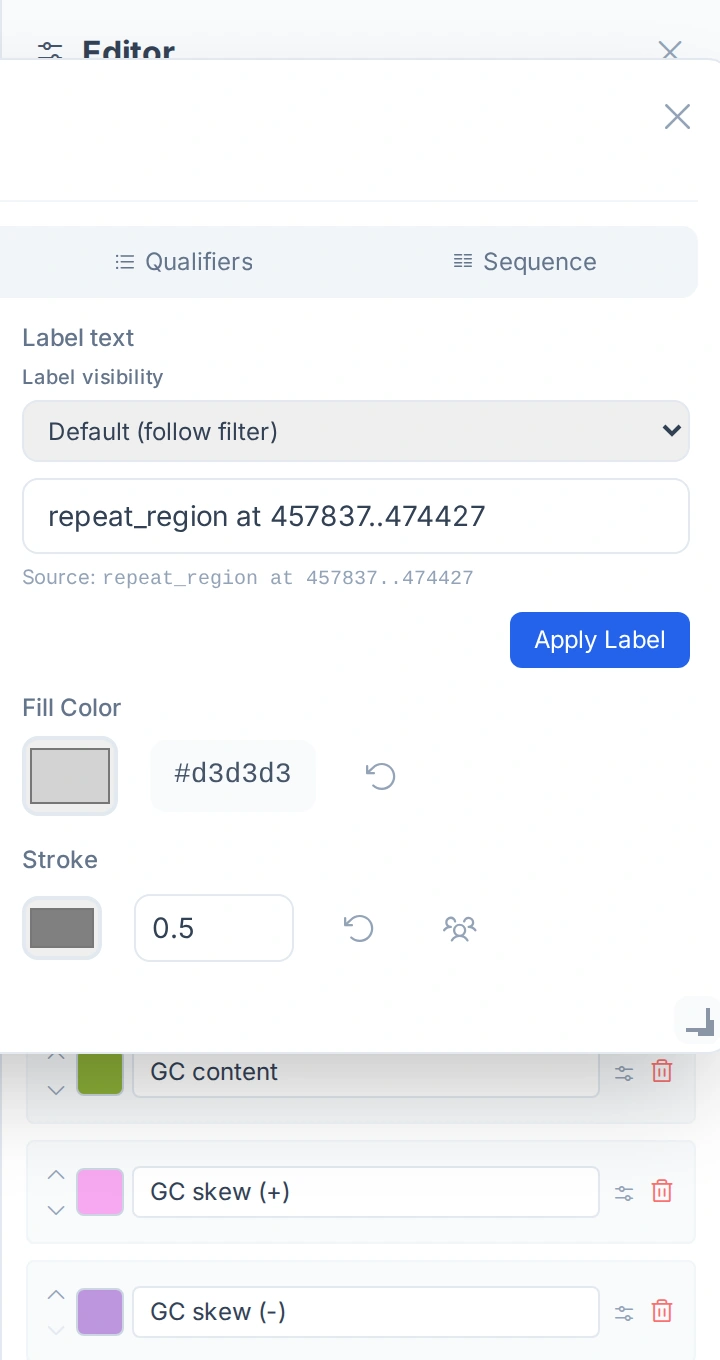
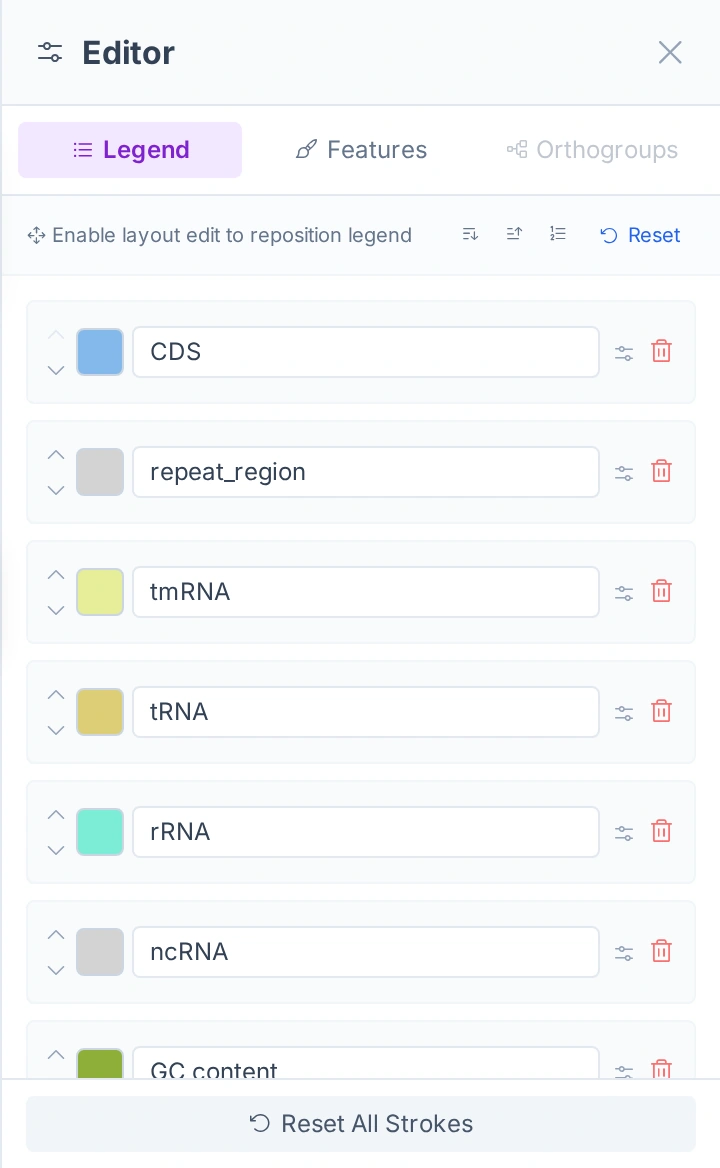
continued

diff --git a/tests/web/gallery-tutorial.playwright.spec.js b/tests/web/gallery-tutorial.playwright.spec.js
@@ -109,7 +109,7 @@ test('Gallery renders the Hepatoplasmataceae tutorial and files panels', async (
   const tutorialPanel = page.getByRole('tabpanel', { name: 'Tutorial' });
   await expect(tutorialPanel.getByRole('heading', { name: 'Quick reproduce' })).toHaveCount(0);
   const mediaImages = tutorialPanel.getByRole('img');
-  await expect(mediaImages).toHaveCount(15);
+  await expect(mediaImages).toHaveCount(13);
   await expect(mediaImages.first()).toHaveAttribute('src', /manual-01-01-linear-mode\.webp$/);
   await expect(tutorialPanel.locator('img[src$="manual-07-01-collinear-block-popup.webp"]')).toHaveCount(1);
   for (let idx = 0; idx < await mediaImages.count(); idx += 1) {
@@ -142,8 +142,8 @@ test('Gallery renders the Hepatoplasmataceae orthogroup tutorial and media', asy
   await expect(page.getByText('orthogroup ID, display name, member count')).toBeVisible();
   const tutorialPanel = page.getByRole('tabpanel', { name: 'Tutorial' });
   const mediaImages = tutorialPanel.getByRole('img');
-  await expect(mediaImages).toHaveCount(16);
-  await expect(tutorialPanel.locator('img[src$="02-orthogroup-preview.webp"]')).toHaveCount(1);
+  await expect(mediaImages).toHaveCount(14);
+  await expect(tutorialPanel.locator('img[src$="manual-07-01-orthogroup-overview.webp"]')).toHaveCount(1);
   await expect(tutorialPanel.locator('img[src$="manual-04-01-orthogroups-mode.webp"]')).toHaveCount(1);
   for (let idx = 0; idx < await mediaImages.count(); idx += 1) {
     const image = mediaImages.nth(idx);
@@ -187,9 +187,9 @@ test('Gallery renders the aminoglycoside BGC tutorial and media', async ({ page 
   ).toBeVisible();
   await expect(page.getByText('Reverse complement: BGC0000713 only')).toBeVisible();
   const mediaImages = tutorialPanel.getByRole('img');
-  await expect(mediaImages).toHaveCount(22);
+  await expect(mediaImages).toHaveCount(21);
   await expect(tutorialPanel.locator('img[src$="manual-09-01-orthogroup-popup.webp"]')).toHaveCount(1);
-  await expect(tutorialPanel.locator('img[src$="04-feature-popup.webp"]')).toHaveCount(1);
+  await expect(tutorialPanel.locator('img[src$="manual-10-01-feature-popup.webp"]')).toHaveCount(2);
   await expect(tutorialPanel.locator('img[src$="manual-04-03-track-layout-middle.webp"]')).toHaveCount(1);
   await expect(tutorialPanel.locator('img[src$="manual-04-04-pairwise-style-curve.webp"]')).toHaveCount(1);
   await expect(tutorialPanel.locator('img[src$="manual-07-01-specific-rules-all.webp"]')).toHaveCount(1);
@@ -229,10 +229,10 @@ test('Gallery renders the WSSV conservation tutorial and media', async ({ page }
   ).toBeVisible();
   await expect(tutorialPanel.getByText('MG18PR-0187-N40S.fa')).toBeVisible();
   const mediaImages = tutorialPanel.getByRole('img');
-  await expect(mediaImages).toHaveCount(21);
-  await expect(tutorialPanel.locator('img[src$="03-conservation-rings.webp"]')).toHaveCount(1);
-  await expect(tutorialPanel.locator('img[src$="02-input-files.webp"]')).toHaveCount(1);
-  await expect(tutorialPanel.locator('img[src$="04-feature-popup.webp"]')).toHaveCount(1);
+  await expect(mediaImages).toHaveCount(18);
+  await expect(tutorialPanel.locator('img[src$="manual-09-01-conservation-rings.webp"]')).toHaveCount(1);
+  await expect(tutorialPanel.locator('img[src$="manual-10-01-files-tab.webp"]')).toHaveCount(1);
+  await expect(tutorialPanel.locator('img[src$="manual-11-01-feature-popup.webp"]')).toHaveCount(2);
   await expect(tutorialPanel.locator('img[src$="manual-08-01-browser-losat-run.webp"]')).toHaveCount(1);
   for (let idx = 0; idx < await mediaImages.count(); idx += 1) {
     const image = mediaImages.nth(idx);
@@ -271,9 +271,9 @@ test('Gallery renders the human mitochondrial AT skew tutorial and media', async
   await expect(tutorialPanel.getByText('Dinucleotide: AT')).toBeVisible();
   await expect(tutorialPanel.getByText('Legend label: AT skew')).toBeVisible();
   const mediaImages = tutorialPanel.getByRole('img');
-  await expect(mediaImages).toHaveCount(19);
-  await expect(tutorialPanel.locator('img[src$="02-atskew-preview.webp"]')).toHaveCount(1);
-  await expect(tutorialPanel.locator('img[src$="03-feature-popup.webp"]')).toHaveCount(1);
+  await expect(mediaImages).toHaveCount(17);
+  await expect(tutorialPanel.locator('img[src$="manual-09-01-atskew-preview.webp"]')).toHaveCount(1);
+  await expect(tutorialPanel.locator('img[src$="manual-10-01-feature-popup.webp"]')).toHaveCount(2);
   await expect(tutorialPanel.locator('img[src$="manual-06-01-at-skew-slot-values.webp"]')).toHaveCount(1);
   for (let idx = 0; idx < await mediaImages.count(); idx += 1) {
     const image = mediaImages.nth(idx);
@@ -310,10 +310,10 @@ test('Gallery renders the majanivirus orthogroup tutorial and media', async ({ p
   await expect(tutorialPanel.getByRole('cell', { name: 'unmatched CDS' })).toBeVisible();
   await expect(tutorialPanel.getByText('Use 32 threads only deliberately')).toBeVisible();
   const mediaImages = tutorialPanel.getByRole('img');
-  await expect(mediaImages).toHaveCount(20);
+  await expect(mediaImages).toHaveCount(19);
   await expect(tutorialPanel.locator('img[src$="manual-07-01-orthogroup-preview.webp"]')).toHaveCount(1);
   await expect(tutorialPanel.locator('img[src$="manual-08-01-orthogroup-popup.webp"]')).toHaveCount(1);
-  await expect(tutorialPanel.locator('img[src$="04-files.webp"]')).toHaveCount(1);
+  await expect(tutorialPanel.locator('img[src$="manual-09-01-files-tab.webp"]')).toHaveCount(1);
   await expect(tutorialPanel.locator('img[src$="manual-03-03-thread-threshold-settings.webp"]')).toHaveCount(1);
   for (let idx = 0; idx < await mediaImages.count(); idx += 1) {
     const image = mediaImages.nth(idx);
@@ -352,10 +352,10 @@ test('Gallery renders the Vibrio multi-record tutorial and media', async ({ page
   ).toBeVisible();
   await expect(tutorialPanel.getByText('Record positions: #1@1, #2@1, #3@2, #4@2, #5@2, #6@2')).toBeVisible();
   const mediaImages = tutorialPanel.getByRole('img');
-  await expect(mediaImages).toHaveCount(18);
-  await expect(tutorialPanel.locator('img[src$="02-multirecord-preview.webp"]')).toHaveCount(1);
-  await expect(tutorialPanel.locator('img[src$="03-files.webp"]')).toHaveCount(1);
-  await expect(tutorialPanel.locator('img[src$="04-feature-popup.webp"]')).toHaveCount(1);
+  await expect(mediaImages).toHaveCount(15);
+  await expect(tutorialPanel.locator('img[src$="manual-06-01-multirecord-preview.webp"]')).toHaveCount(1);
+  await expect(tutorialPanel.locator('img[src$="manual-07-01-files-tab.webp"]')).toHaveCount(1);
+  await expect(tutorialPanel.locator('img[src$="manual-08-01-feature-popup.webp"]')).toHaveCount(1);
   await expect(tutorialPanel.locator('img[src$="manual-04-02-record-positions.webp"]')).toHaveCount(1);
   for (let idx = 0; idx < await mediaImages.count(); idx += 1) {
     const image = mediaImages.nth(idx);
@@ -506,7 +506,7 @@ test('Gallery tutorial media fits a mobile viewport', async ({ page }) => {
   await page.getByRole('tab', { name: 'Tutorial' }).click();
 
   const mediaImages = page.locator('#tutorial-panel .tutorial-media img');
-  await expect(mediaImages).toHaveCount(15);
+  await expect(mediaImages).toHaveCount(13);
   await mediaImages.last().scrollIntoViewIfNeeded();
   const overflowingImages = await mediaImages.evaluateAll((images) =>
     images

diff --git a/docs/skills/web-gallery-screenshot-maintenance/SKILL.md b/docs/skills/web-gallery-screenshot-maintenance/SKILL.md
@@ -35,8 +35,9 @@ Then inspect the target tutorial JSON and media directory:
    - `recrop`: correct state but poor extent, blurry text, missing context, or too much page.
    - `replace`: final preview or stale/empty crop used for an input/edit/upload/setting operation.
    - `add`: operation needs an extra crop to avoid one overloaded screenshot.
-4. Record the result in the operation register or the active screenshot plan before replacing files.
-5. Keep batches small. Do not migrate every tutorial in one risky change.
+4. For sweeping audits, make a temporary contact sheet of referenced media for each tutorial and inspect the updated contact sheet after fixes.
+5. Record the result in the operation register or the active screenshot plan before replacing files. If no active register exists, create or update `docs/WEB_GALLERY_OPERATION_SCREENSHOT_REGISTER.md`.
+6. Keep batches small. Do not migrate every tutorial in one risky change.
 
 ## Screenshot Rules
 
@@ -59,7 +60,9 @@ Use the real UI the user operates.
 - Judge readability at the rendered Gallery size, not at the source bitmap's full size. A source image that looks readable only when opened standalone is a `recrop` if Gallery CSS downscales it enough to make popup text, highlighted targets, or affected item(s) hard to read.
 - Generated preview crops are appropriate only for final result checks, visual inspection, legends, popups, or rendered-output comparisons.
 - Do not show the same generated preview or popup twice in immediate succession as both step-level media and operation media. If the operation already carries the result or popup crop, omit step-level media or make the two crops visibly different and purposeful.
+- More generally, omit step-level media when the operation media already shows the same UI state, Files tab, generated preview, or popup without adding new context.
 - Post-generation editor screenshots must come from the exact restored session for that example. Before capturing drawers such as Legend, Features, or Orthogroups, verify the restored editor state matches the example-specific generated result. A generic or stale drawer state, such as a BGC legend editor showing only `CDS`, is a `replace`, even if it is a real drawer crop.
+- Drawer screenshots must show the named active drawer tab and must not be overlapped by a popup or another drawer's controls. Legend drawer crops should be scrolled so the entries named by the caption are visible.
 - If a restored session's saved editor state and rendered SVG disagree, fix the app restore behavior or refresh the session artifact before capturing. Do not document the broken intermediate state as the tutorial screenshot.
 - If a restored session's UI controls disagree with the tutorial command or rendered output, fix the app restore behavior or refresh the session artifact before capturing. This includes settings that may exist only in `cliInvocation.args` in older sessions, such as multi-record `--multi_record_position` tokens.
 - When capturing a drawer, keep the actual drawer controls visible, but exclude unrelated floating preview controls if they visually overlap the drawer; use temporary capture-only CSS rather than permanent app changes.
@@ -88,6 +91,7 @@ Keep tutorial text aligned with the actual workflow.
 - Do not describe automatically generated output as a manual editor task. If `Generate Diagram` creates legend entries, tracks, labels, or previews, say they are generated and reserve drawers/editors for review or optional tweaks.
 - Use action text for operations and state text for generated results. Avoid vague instructions such as `keep visible` when the UI already produced the state.
 - Keep pre-generation setup, generated-result inspection, and post-generation edits as separate concepts.
+- When a step already has a `table`, do not repeat the same fields as slash-delimited operation text or captions. Refer to the table row or category instead.
 
 Write captions and alt text as action/state descriptions:
 
@@ -124,5 +128,7 @@ npx playwright test tests/web/gallery-tutorial.playwright.spec.js --project=chro
 ```
 
 If Node Playwright is unavailable, use Python Playwright for equivalent media and viewport checks.
+
+When adding or removing tutorial media references, update focused browser tests that assert image counts or exact `src` values.
 
 Manual review must check desktop and mobile Gallery views, image readability, caption specificity, and that no input/edit operation is represented only by a generated preview.